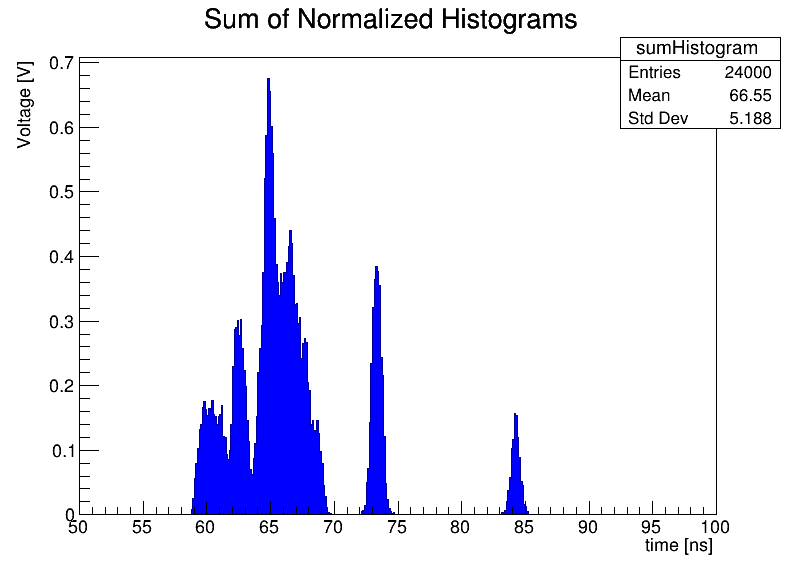
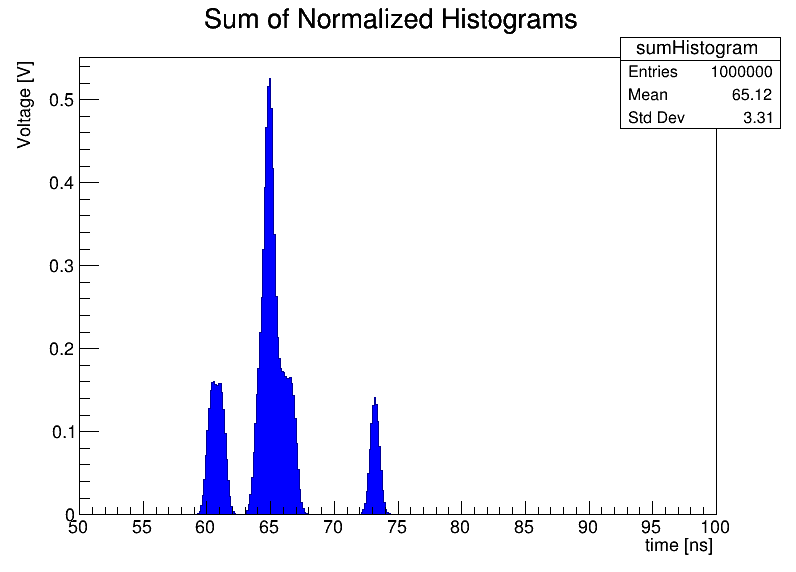
new commit

diff --git a/time_distribution.C b/time_distribution.C
@@ -52,7 +52,7 @@ int main() {
     //sumcutHistogram->SetYTitle("Voltage [V]");
 
     // Seleziona i primi n eventi dal vettore time (o meno se il vettore ha meno di n elementi)
-    int numEventsToSelect = std::min(500, static_cast<int>(time.size()));
+    int numEventsToSelect = std::min(10, static_cast<int>(time.size()));
 
     // Creazione di gaussiane solo per gli eventi selezionati in modo casuale
     double sigma = 0.35;
@@ -63,14 +63,14 @@ int main() {
       // TH1F* cuthistogram = new TH1F("histogram", "Normalized Histogram", 400, 58, 73);
       
       // Riempimento e normalizzazione dell'istogramma corrente
-      for (int j = 0; j < 1000; ++j) {
+      for (int j = 0; j < 100000; ++j) {
 	histogram->Fill(generateGaussian(mean, sigma, g));
 	//	cuthistogram->Fill(generateGaussian(mean, sigma, g));
 			   
       }
 	  
 	  
-      histogram->Scale(1.0 /1000);
+      histogram->Scale(1.0 /100000);
       // cuthistogram->Scale(1.0/1000);
       
       // Aggiungi i contenuti dell'istogramma corrente a sumHistogram
